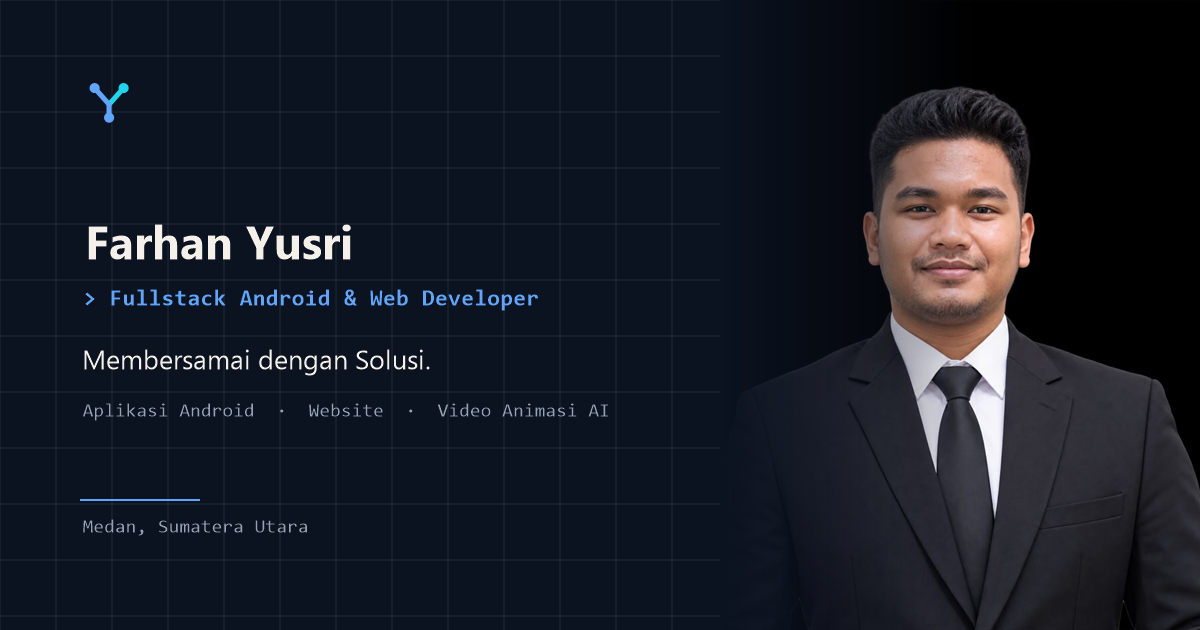
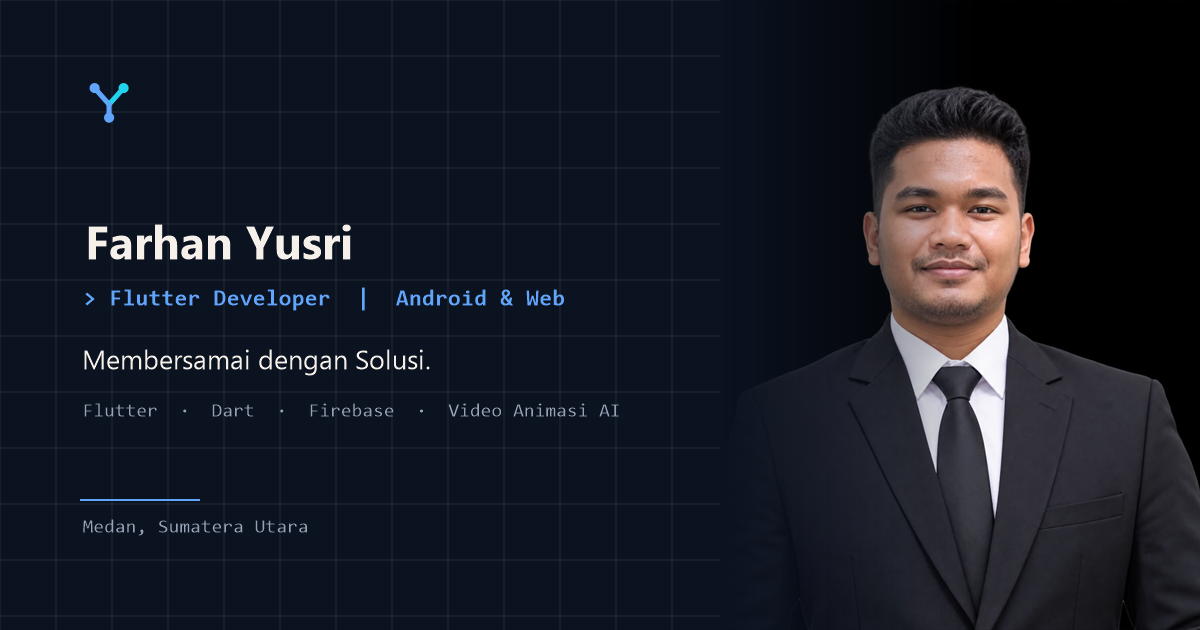
Jadikan Flutter sebagai identitas utama
- Flutter Developer menjadi profesi pertama di hero

- Judul halaman dan og:title dipimpin Flutter Developer (Android dan Web)

- Fakta: baris Spesialisasi Flutter ditambahkan

- Bio menegaskan Flutter sebagai alat utama sehari-hari

- Gambar pratinjau dibuat ulang dengan profesi baru

diff --git a/js/data.js b/js/data.js
@@ -26,8 +26,8 @@ const DATA = {
 
     // Profesi yang berganti-ganti otomatis di hero.
     peran: [
-      "Fullstack Android & Web Developer",
       "Flutter Developer",
+      "Fullstack Android & Web Developer",
       "AI Animation Creator",
       "Web3 Contributor"
     ],
@@ -55,15 +55,16 @@ const DATA = {
      ========================================================================== */
   tentang: {
     paragraf: [
-      "Saya Farhan Yusri, developer asal Medan yang membangun aplikasi Android dan website menggunakan Flutter. Satu basis kode untuk kedua platform membuat pengerjaan lebih singkat dan tampilannya konsisten di mana pun dibuka. Di samping itu saya aktif berkontribusi di berbagai project Web3 dan memproduksi video animasi berbasis AI.",
+      "Saya Farhan Yusri, Flutter developer asal Medan. Flutter adalah alat utama saya sehari-hari, dipasangkan dengan Firebase untuk membangun aplikasi Android sekaligus website dari satu basis kode — pengerjaan lebih singkat dan tampilannya konsisten di mana pun dibuka. Di samping itu saya aktif berkontribusi di berbagai project Web3 dan memproduksi video animasi berbasis AI.",
       "Dalam bekerja saya memanfaatkan AI sebagai alat bantu — mulai dari riset, penulisan kode, sampai produksi visual. Pendekatan ini membuat proses pengerjaan jauh lebih cepat, sementara keputusan teknis dan kendali atas kualitas hasil akhir tetap ada di tangan saya. Cara kerja yang sama juga membuat saya cepat menyesuaikan diri ketika sebuah proyek menuntut teknologi di luar yang biasa saya gunakan.",
       "Prinsip saya sederhana: membersamai dengan solusi. Pekerjaan saya tidak berhenti saat file diserahkan, tapi ikut memastikan apa yang dibangun benar-benar menjawab kebutuhan Anda."
     ],
 
     fakta: [
       { label: "Status",      nilai: "Tersedia untuk proyek baru" },
+      { label: "Spesialisasi", nilai: "Flutter (Android & Web)" },
       { label: "Teknologi",   nilai: "Flutter, Dart, Firebase" },
-      { label: "Fokus",       nilai: "Android, Web, Video Animasi AI" },
+      { label: "Fokus lain",  nilai: "Video Animasi AI, Web3" },
       { label: "Metode",      nilai: "AI-assisted development" },
       { label: "Bahasa",      nilai: "Indonesia, Inggris" },
       { label: "Cara kerja",  nilai: "Remote & on-site (Medan)" }

diff --git a/index.html b/index.html
@@ -9,19 +9,19 @@
      Bagian ini yang muncul saat link di-share ke WhatsApp/LinkedIn.
      GANTI sesuai data asli.
      ============================================================ -->
-<title>Farhan Yusri — Fullstack Android &amp; Web Developer</title>
-<meta name="description" content="Farhan Yusri, Flutter Developer asal Medan. Membangun aplikasi Android dan website dengan Flutter dan Dart, serta video animasi AI untuk bisnis dan brand. Membersamai dengan solusi.">
+<title>Farhan Yusri — Flutter Developer (Android &amp; Web)</title>
+<meta name="description" content="Farhan Yusri, Flutter Developer asal Medan. Membangun aplikasi Android dan website dari satu basis kode dengan Flutter, Dart, dan Firebase. Juga memproduksi video animasi AI. Membersamai dengan solusi.">
 <meta name="author" content="Farhan Yusri">
 <meta name="robots" content="index, follow">
 
 <meta property="og:type" content="profile">
-<meta property="og:title" content="Farhan Yusri — Fullstack Android &amp; Web Developer">
+<meta property="og:title" content="Farhan Yusri — Flutter Developer (Android &amp; Web)">
 <meta property="og:description" content="Flutter Developer asal Medan. Aplikasi Android, website, dan video animasi AI untuk bisnis dan brand. Membersamai dengan solusi.">
 <meta property="og:locale" content="id_ID">
 <!-- Gambar pratinjau saat link dibagikan ke WhatsApp / LinkedIn / Telegram.
      Alamatnya harus lengkap diawali https://, bukan path relatif. -->
 <meta property="og:image" content="https://hannyusri.github.io/assets/img/og-image.png">
-<meta property="og:image:alt" content="Farhan Yusri — Fullstack Android &amp; Web Developer">
+<meta property="og:image:alt" content="Farhan Yusri — Flutter Developer">
 <meta property="og:image:width" content="1200">
 <meta property="og:image:height" content="630">
 <meta property="og:url" content="https://hannyusri.github.io/">
